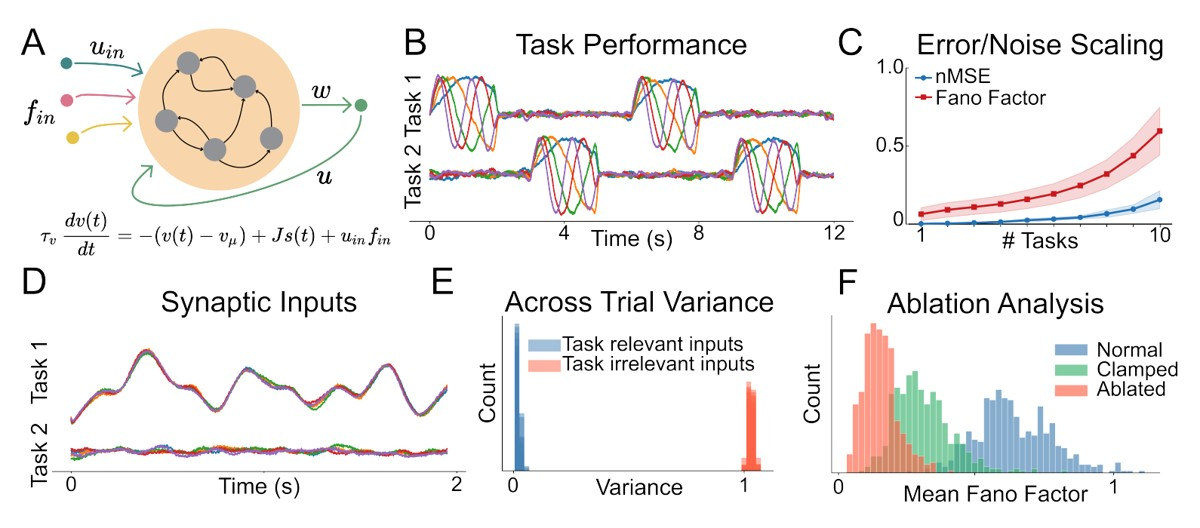
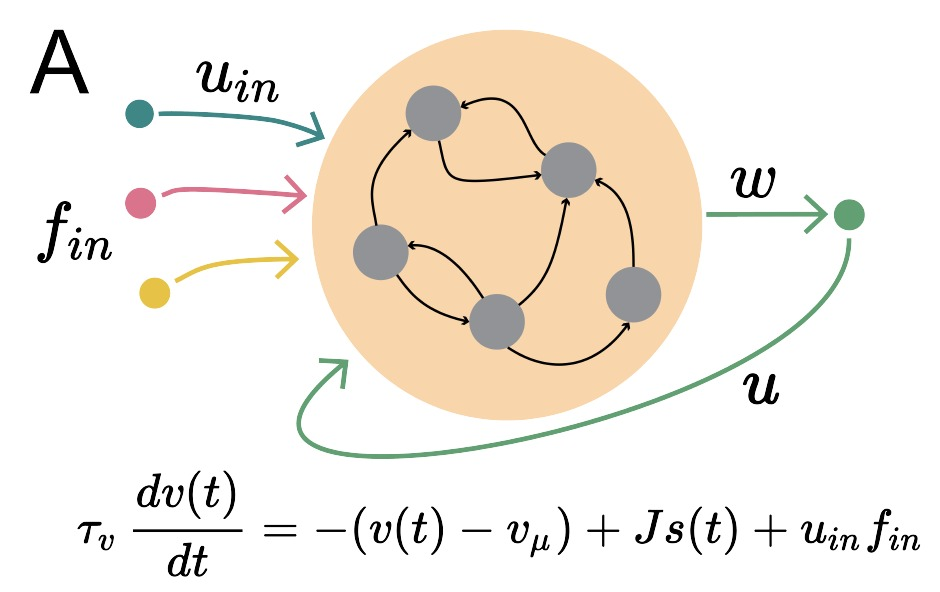
Deploy preview for PR 34 🛫

diff --git a/preview/pr-34/index.html b/preview/pr-34/index.html
@@ -468,7 +468,7 @@
 <p>State inference and parameter learning for nonlinear stochastic dynamical systems is a core computation across neuroscience and engineering. We introduced the Zakai Equation Neural Operator (ZENO), which trains a neural operator against a physics-informed loss derived from the Zakai equation to approximate the unnormalized filtering distribution of a latent stochastic system. Used inside an expectation-maximization framework, ZENO performs both state inference and parameter learning, and we show that it recovers posterior distributions and stochastic dynamics in simulated double-well, Van der Pol, and Lorenz systems.</p>
 
 <p class="center">Relevant preprint: <a href="https://arxiv.org/abs/2610.32926"><em>ZENO: Nonlinear filtering with Zakai Equation Neural Operators</em></a> <br>
-Prasad, A., Flavell, S.W., DePasquale, B. (2026) <br>
+<a href="members/aadi-prasad.html">Prasad, A.</a>, Flavell, S.W., <a href="members/brian-depasquale.html">DePasquale, B.</a> (2026) <br>
 arXiv</p>
 
   </div>
@@ -486,7 +486,7 @@ arXiv</p>
 <p>Time of day shapes decision-making, but studying it requires continuous behavioral measurement over long timescales and models that can handle non-stationary behavior. Using an autonomous 24-hour training facility, we collected over half a million trials of rats performing a visual evidence accumulation task. We developed a state-dependent drift diffusion model, which combines a drift diffusion model with a hidden Markov model over latent states, to fit these choices and reaction times. The model reveals recurring latent states with distinct drift rate, bias, and decision-commitment time that align with feeding schedules and the light–dark cycle.</p>
 
 <p class="center">Relevant preprint: <a href="https://doi.org/10.21203/rs.3.rs-9883645/v1"><em>Diurnal rhythms of choice: a novel state-dependent drift diffusion model uncovers time-dependent changes in rat decision making</em></a> <br>
-Senne, R.A., Xia, H., Duebel, H.F., Do, Q., Kane, G.A., Fourie, J., Ramirez, S., Scott, B.B., DePasquale, B. (2026) <br>
+<a href="members/ryan-senne.html">Senne, R.A.</a>, Xia, H., Duebel, H.F., Do, Q., Kane, G.A., Fourie, J., Ramirez, S., <a href="members/scott-lab.html">Scott, B.B.</a>, <a href="members/brian-depasquale.html">DePasquale, B.</a> (2026) <br>
 Research Square</p>
 
   </div>
@@ -504,7 +504,7 @@ Research Square</p>
 <p>Simultaneous recordings from multiple brain regions mix feedforward and feedback signals within the same neural populations, which makes inter-regional communication hard to interpret. We introduced BiXformer, a bidirectional cross-attention transformer that uses directionally masked attention to separate inter-regional communication into causal and acausal streams. It recovers low-dimensional, directed latent dynamics and communication delays without assuming linearity or stationarity. BiXformer recovers ground-truth structure and delays in synthetic data, and in multi-region recordings during a movement task it reveals components consistent with sensory feedback and motor-related signals.</p>
 
 <p class="center">Relevant preprint: <a href="https://doi.org/10.64898/2026.06.05.730511"><em>BiXformer: A Bidirectional Cross Attention Transformer for Disentangling Inter-Regional Neural Dynamics</em></a> <br>
-El Sayed, O., Han, Y., Dragoi, T., Economo, M.N., DePasquale, B. (2026) <br>
+<a href="members/omar-el-sayed.html">El Sayed, O.</a>, Han, Y., Dragoi, T., <a href="members/economo-lab.html">Economo, M.N.</a>, <a href="members/brian-depasquale.html">DePasquale, B.</a> (2026) <br>
 bioRxiv</p>
 
   </div>
@@ -522,7 +522,7 @@ bioRxiv</p>
 <p>Neural responses are notoriously variable across repeated trials, yet we lack a circuit-level understanding of how this spiking noise arises and what constraints it places on computation. We hypothesize that spiking noise emerges when a circuit learns to perform many computations, reflecting a fundamental tradeoff between flexibility and noise. Training recurrent spiking networks on a set of pattern-generation tasks, we show that both error and spiking variability grow exponentially with the number of tasks learned, and that the variability is driven by synaptic input along task-irrelevant dimensions.</p>
 
 <p class="center">Relevant poster: <a href="https://openreview.net/forum?id=zCgRfzjB59"><em>A Fundamental Tradeoff between Computational Flexibility and Spiking Variability in Recurrent Neural Networks</em></a> <br>
-Loschinskey, Z., Economo, M., DePasquale, B. (2026) <br>
+<a href="members/zachary-loschinskey.html">Loschinskey, Z.</a>, <a href="members/economo-lab.html">Economo, M.</a>, <a href="members/brian-depasquale.html">DePasquale, B.</a> (2026) <br>
 Conference on Cognitive Computational Neuroscience (CCN) 2026</p>
 
   </div>
@@ -542,7 +542,7 @@ Conference on Cognitive Computational Neuroscience (CCN) 2026</p>
 <p>We also showed that pre-trained chemical foundation models do not outperform classical hand-designed features on odorant-receptor binding tasks unless they are fine-tuned. Our model, LORAX, uses low-rank adaptation (LoRA) with cross-attention to build olfaction-specific odorant representations that predict odorant-receptor affinity.</p>
 
 <p class="center">Relevant preprint: <a href="https://doi.org/10.1101/2025.11.04.686628"><em>Low rank adaptation of chemical foundation models generates effective odorant representations</em></a> <br>
-McConachie, G.D., Duniec, E., Guerina, F.V., Younger, M.A., DePasquale, B. (2025) <br>
+<a href="members/grant-mcconachie.html">McConachie, G.D.</a>, <a href="members/emily-duniec.html">Duniec, E.</a>, Guerina, F.V., <a href="members/younger-lab.html">Younger, M.A.</a>, <a href="members/brian-depasquale.html">DePasquale, B.</a> (2025) <br>
 bioRxiv</p>
 
   </div>
@@ -560,7 +560,7 @@ bioRxiv</p>
 <p>State-space models (SSMs) are powerful tools for modeling time series data that naturally arise in neuroscience, finance, and engineering. These models assume observations arise from a hidden latent sequence, encompassing methods like Hidden Markov Models (HMMs) and Linear Dynamical Systems (LDS). Our group built an open-source software package to implement these models in Julia called StateSpaceDynamics.jl. This modular package is designed to be fast, readable, and self-contained for the express purpose of fitting a plurality of SSMs, easily in Julia.</p>
 
 <p class="center">Relevant paper: <a href="https://doi.org/10.21105/joss.08077"><em>StateSpaceDynamics.jl: A Julia package for probabilistic state space models (SSMs)</em></a> <br>
-Senne, R.A., Loschinskey, Z., Fourie, J., Loughridge, C., DePasquale, B. (2025) <br>
+<a href="members/ryan-senne.html">Senne, R.A.</a>, <a href="members/zachary-loschinskey.html">Loschinskey, Z.</a>, Fourie, J., Loughridge, C., <a href="members/brian-depasquale.html">DePasquale, B.</a> (2025) <br>
 Journal of Open Source Software 10(115): 8077</p>
 
   </div>
@@ -578,26 +578,8 @@ Journal of Open Source Software 10(115): 8077</p>
 <p>Biological neural networks compute differently than most artificial neural networks used in machine learning. For example, although real neurons communicate with spikes, reproducing this feature in artificial models has been a challenge. We develop methods for training biophysically detailed neural networks and use these models to understand how real biological circuits compute. Through mathematical modeling, we focus on building tighter links between biological neural networks and more abstract artificial neural network models used in machine learning.</p>
 
 <p class="center">Relevant paper: <a href="https://doi.org/10.1016/j.neuron.2022.12.007"><em>The centrality of population-level factors to network computation is demonstrated by a versatile approach for training spiking networks</em></a> <br>
-DePasquale, B, Sussillo, D., Abbott, L.F., Churchland, M.M. (2023) <br>
+<a href="members/brian-depasquale.html">DePasquale, B</a>, Sussillo, D., Abbott, L.F., Churchland, M.M. (2023) <br>
 Neuron</p>
-
-  </div>
-</div>
-
-<div class="feature">
-  <a class="feature-image" aria-label="Machine learning for neural data analysis">
-    <img src="/preview/pr-34/images/Fig2.jpg" loading="lazy" alt="Machine learning for neural data analysis" onerror="this.src = '/preview/pr-34/images/fallback.svg'; this.onerror = null;">
-  </a>
-  <div class="feature-text">
-    
-      <p class="feature-title">Machine learning for neural data analysis</p>
-    
-    
-<p>Neural recordings from behaving animals are often much too complex to link directly to an animal’s ongoing behavior. We develop machine learning models to analyze complex neural datasets to understand the algorithms that underlie different behaviors. We principally focus on the neural underpinnings of movement and decision making.</p>
-
-<p class="center">Relevant paper: <a href="https://doi.org/10.7554/eLife.84955"><em>Neural population dynamics underlying evidence accumulation in multiple rat brain regions</em></a> <br>
-DePasquale, B., Brody, C.D., Pillow, J. (2024) <br>
-eLife 13: e84955</p>
 
   </div>
 </div>
@@ -619,40 +601,44 @@ eLife 13: e84955</p>
 <ul>
   <li>
 <a href="https://doi.org/10.1371/journal.pbio.3003959">Recurrent synapses between CO2-sensitive olfactory sensory neurons enable robust CO2 detection in Aedes aegypti mosquitoes</a> <br>
-Bao, J., Alford, W.T., Khandelwal, A., Walsh, L., Lantz, G., Poncio, S., Serratosa Capdevila, L., Azatian, Y., DePasquale, B., Hildebrand, D.G.C., Younger, M.A., Lee, W.-C.A. (2026) <br>
+Bao, J., Alford, W.T., Khandelwal, A., Walsh, L., Lantz, G., Poncio, S., Serratosa Capdevila, L., Azatian, Y., <a href="members/brian-depasquale.html">DePasquale, B.</a>, Hildebrand, D.G.C., <a href="members/younger-lab.html">Younger, M.A.</a>, Lee, W.-C.A. (2026) <br>
 PLoS Biology 24(9): e3003959</li>
   <li>
 <a href="https://doi.org/10.64898/2026.01.13.699314">Dynamic engagement of the motor cortex in controlling movement</a> <br>
-Dragoi, T., Loschinskey, Z., Hasnain, M.A., DePasquale, B., Economo, M.N. (2026) <br>
+Dragoi, T., <a href="members/zachary-loschinskey.html">Loschinskey, Z.</a>, Hasnain, M.A., <a href="members/brian-depasquale.html">DePasquale, B.</a>, <a href="members/economo-lab.html">Economo, M.N.</a> (2026) <br>
 bioRxiv</li>
   <li>
 <a href="https://doi.org/10.1038/s41586-025-10083-1">Striatum-wide dopamine encodes trajectory errors separated from value</a> <br>
-Brown, E.H., Zi, Y., Vu, M.-A.T., Bouabid, S., Lindsey, J.W., Godfrey-Nwachukwu, C., Attarwala, A., Litwin-Kumar, A., DePasquale, B., Howe, M.W. (2026) <br>
+Brown, E.H., <a href="members/darcy-zi.html">Zi, Y.</a>, Vu, M.-A.T., Bouabid, S., Lindsey, J.W., Godfrey-Nwachukwu, C., Attarwala, A., Litwin-Kumar, A., <a href="members/brian-depasquale.html">DePasquale, B.</a>, <a href="members/howe-lab.html">Howe, M.W.</a> (2026) <br>
 Nature 652(8109): 424</li>
   <li>
 <a href="https://doi.org/10.1038/s41586-025-09528-4">Transitions in dynamical regime and neural mode during perceptual decisions</a> <br>
-Luo, T.Z., Kim, T.D., Gupta, D., Bondy, A., Kopec, C.D., Elliott, V.A., DePasquale, B., Brody, C.D. (2025) <br>
+Luo, T.Z., Kim, T.D., Gupta, D., Bondy, A., Kopec, C.D., Elliott, V.A., <a href="members/brian-depasquale.html">DePasquale, B.</a>, Brody, C.D. (2025) <br>
 Nature 646(8087): 1156</li>
   <li>
+<a href="https://doi.org/10.7554/eLife.84955">Neural population dynamics underlying evidence accumulation in multiple rat brain regions</a> <br>
+<a href="members/brian-depasquale.html">DePasquale, B.</a>, Brody, C.D., Pillow, J. (2024) <br>
+eLife 13: e84955</li>
+  <li>
 <a href="https://doi.org/10.1101/2020.11.27.401539">Recurrent dynamics of prefrontal cortex during context-dependent decision-making</a> <br>
-Cohen Z, DePasquale, B., Aoi, M., Pillow, J. (2020) <br>
+Cohen Z, <a href="members/brian-depasquale.html">DePasquale, B.</a>, Aoi, M., Pillow, J. (2020) <br>
 bioRxiv</li>
   <li>
 <a href="https://linkinghub.elsevier.com/retrieve/pii/S0896627319307317">Task-dependent changes in the large-scale dynamics and necessity of cortical regions</a> <br>
-Pinto, L., Rajan, K., DePasquale, B., Thiberge, S.Y., Tank, D.W., Brody, C.D. (2019) <br>
+Pinto, L., Rajan, K., <a href="members/brian-depasquale.html">DePasquale, B.</a>, Thiberge, S.Y., Tank, D.W., Brody, C.D. (2019) <br>
  Neuron, 104(4), 810-824. e9</li>
   <li>
 <a href="%22https://doi.org/10.1371/journal.pone.0191527%22">full-FORCE: A target-based method for training recurrent networks</a>
 <a href="https://github.com/briandepasquale/full-FORCE-demos" style="text-decoration: none"><i class="fab fa-github"></i> code</a> <br>
-DePasquale, B., Cueva, C.J., Rajan, K., Escola, G.S. &amp; Abbott, L.F. (2018) <br>
+<a href="members/brian-depasquale.html">DePasquale, B.</a>, Cueva, C.J., Rajan, K., Escola, G.S. &amp; Abbott, L.F. (2018) <br>
 PLoS One 13(2): e0191527</li>
   <li>
 <a href="https://www.nature.com/articles/s41467-019-11298-3">Error-correcting dynamics in visual working memory</a> <br>
-Panichello, M.F., DePasquale, B., Pillow, J.W. &amp; Buschman, T.J. (2018) <br>
+Panichello, M.F., <a href="members/brian-depasquale.html">DePasquale, B.</a>, Pillow, J.W. &amp; Buschman, T.J. (2018) <br>
 Nature Communications 10, Article number: 3366</li>
   <li>
 <a href="https://www.nature.com/articles/nn.4241">Building functional networks of spiking model neurons</a> <br>
-Abbott, L.F., DePasquale, B., Memmesheimer, R.-M. (2016) <br>
+Abbott, L.F., <a href="members/brian-depasquale.html">DePasquale, B.</a>, Memmesheimer, R.-M. (2016) <br>
 Nature Neuroscience 19:350-355</li>
 </ul>
 
